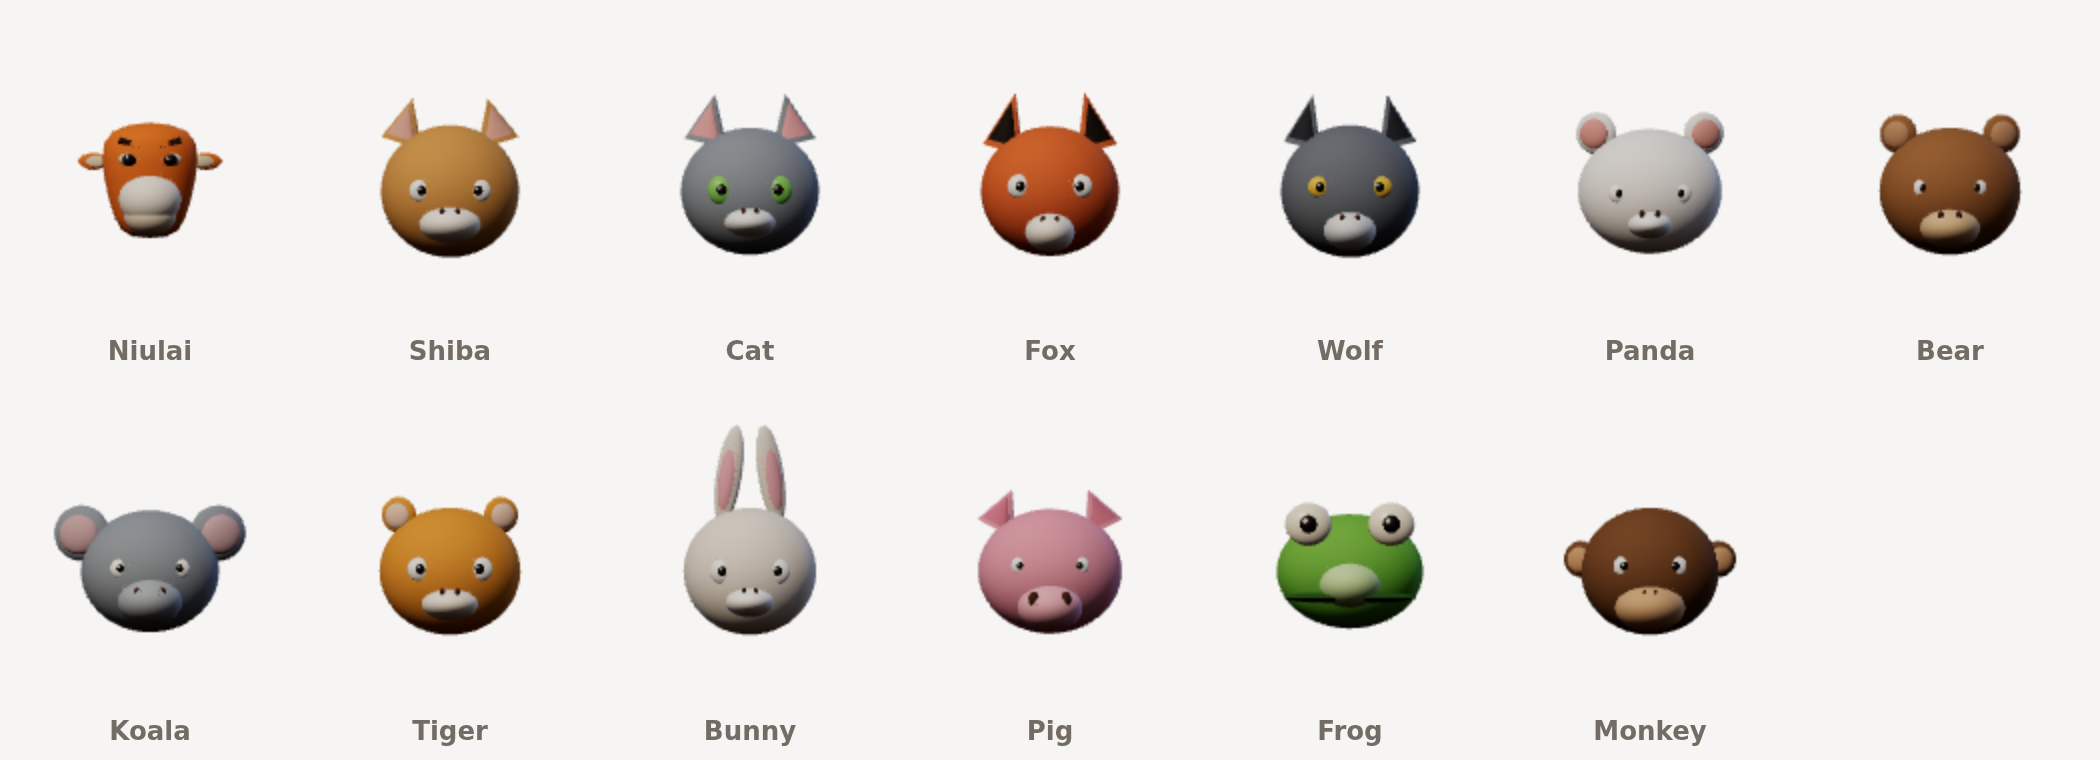
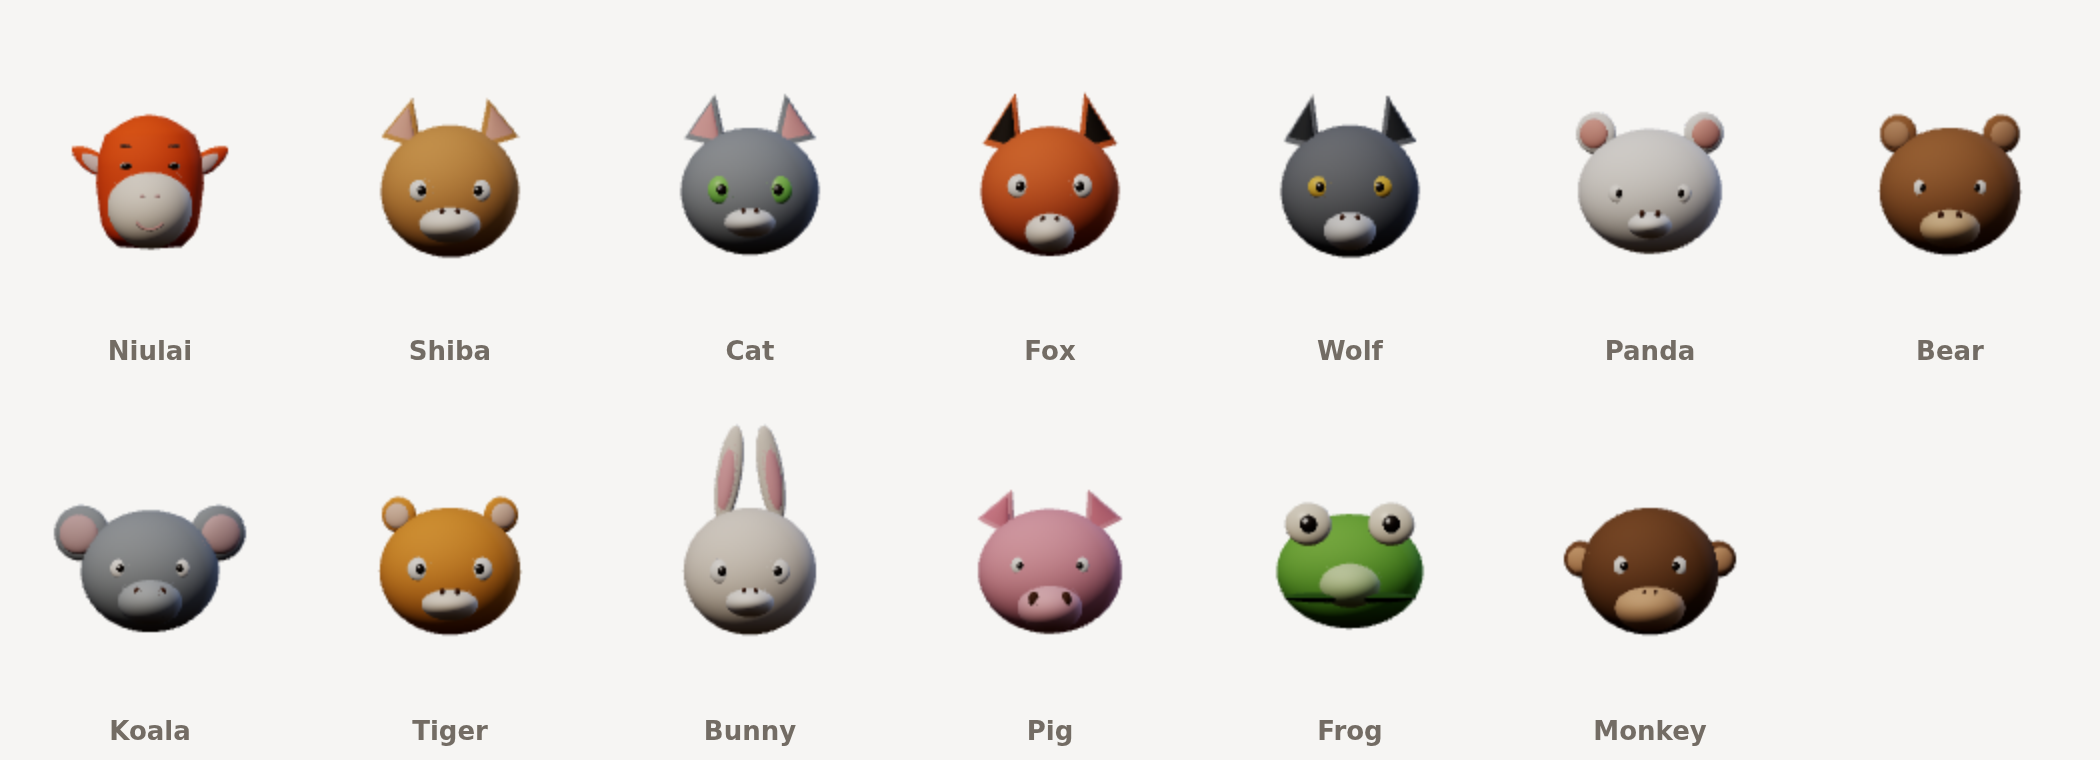
Rebuild Niulai from the three-view turnaround
Measured and colour-sampled from the reference sheet rather than judged
by eye, with the sheet committed to docs/reference/ so the numbers can be
checked.

Scanned off the front frame (head 180px wide, spanning y 76..300, so one
head width is 180px and the origin sits at image y=188):

  head    1.00 wide x 1.24 tall, widest at the vertical centre
  ears    tips reach +/-0.77, about 32 degrees above horizontal
  eyes    +/-0.22, y -0.147, only 0.117 across and flat (aspect 0.52)
  brows   +/-0.22, y -0.33, 0.106 wide, barely 0.018 thick
  muzzle  0.744 wide x 0.78 tall, centred 0.22 below the origin

Colours sampled from the sheet: fur #fa650e, shade #d24f08, muzzle
#f4e2e2, ear inner #efd3d3. All were noticeably more saturated than what
I had been guessing at.

Two things needed the geometry solved rather than eyeballed:

- Features were being placed at a depth inside the lathed skull, so the
  eyes and brows showed only as specks where their tips broke the
  surface. Evaluating the profile radius at each feature's height gives
  the surface depth: 0.393 at the eyes, 0.352 at the brows.
- The muzzle is a sphere intersecting the skull, so its visible pale area
  is the cap that protrudes - not its full width. Flattening it made it
  vanish inside the head entirely. A cap of radius sqrt(2*R*d) means a
  0.40 sphere must protrude 0.173 past the 0.428-deep skull to show the
  0.744-wide muzzle the front frame has.
[…]

Changed region(s): [[0.031, 0.1513, 0.1238, 0.3329]]

diff --git a/src/core/animals.js b/src/core/animals.js
@@ -622,10 +622,10 @@
   var SPECS = [
     base({
       id: 'niulai', name: 'Niulai', emoji: '\ud83d\udc02',
-      fur: '#f5822a', furLight: '#ff9c48', furShade: '#c05a10',
-      inner: '#f0dcc0', outline: '#8a3003',
+      fur: '#fa650e', furLight: '#fd7f28', furShade: '#d24f08',
+      inner: '#efd3d3', outline: '#a83f05',
       mouthColor: '#5a2a10', mouthInner: '#5c2018', tongue: '#cf6b7c',
-      eye: '#221206', eyeWhite: '#efe2d2',
+      eye: '#191110', eyeWhite: '#f2e6e2',
       /*
        * Corrections from the reference, feature by feature:
        *   brows   flat, with a slight frown - not arched
@@ -654,48 +654,59 @@
        */
       model3d: {
         /*
-         * Measured off the front and three-quarter reference frames, in head
-         * widths from the head's centre (head 185px wide, 195px tall in the
-         * front frame, so the whole head is only ~1.05x taller than wide):
+         * Measured off the three-view turnaround by scanning the front frame.
+         * The head is 180px wide and spans y 76..300, so one head width is
+         * 180px and the origin sits at image y=188. Everything below is in
+         * head widths from that centre:
          *
-         *   eyes     +/-0.19, y -0.22, about 0.15 across
-         *   brows    +/-0.19, y -0.32, heavy and angled in
-         *   muzzle   half width 0.30, from y -0.08 down to +0.51
-         *   ears     +/-0.46, y -0.19, small - about 0.135 across
-         *
-         * The three-quarter frame is what sets the snout's forward reach; the
-         * front frame alone reads much flatter than the character is.
+         *   head      1.00 wide x 1.24 tall, widest at the vertical centre
+         *   ears      tips reach +/-0.77, about 32 degrees above horizontal
+         *   eyes      +/-0.22, y -0.147, only 0.117 across - much smaller
+         *             than they look at a glance, and flat (aspect 0.52)
+         *   brows     +/-0.22, y -0.33, 0.106 wide and barely 0.018 thick
+         *   muzzle    0.744 wide x 0.78 tall, centred 0.22 below the origin
          */
         skull: {
-          sx: 1.0, sz: 0.88,
+          sx: 1.0, sz: 0.90,
           profile: [
-            [0.00, -0.52], [0.16, -0.505], [0.265, -0.445], [0.330, -0.325],
-            [0.380, -0.165], [0.420, 0.020], [0.442, 0.200], [0.425, 0.360],
-            [0.345, 0.470], [0.190, 0.530], [0.00, 0.552]
+            [0.00, -0.622], [0.300, -0.600], [0.400, -0.500], [0.447, -0.400],
+            [0.472, -0.250], [0.500, -0.010], [0.490, 0.140], [0.480, 0.240],
+            [0.414, 0.433], [0.339, 0.489], [0.258, 0.545], [0.147, 0.600],
+            [0.00, 0.625]
           ]
         },
-        snout: { rx: 0.292, ry: 0.255, rz: 0.305, y: 0.155, z: 0.205 },
-        eyes: { x: 0.192, y: -0.205, z: 0.318, r: 0.102, aspect: 0.60, tilt: 0.13, iris: 0.066, irisOffset: 0.35 },
-        ear: { type: 'leaf', w: 0.16, h: 0.27, x: 0.415, y: -0.19, z: -0.03, tilt: 1.55, spread: 0.30 },
+        snout: { rx: 0.40, ry: 0.40, rz: 0.42, y: 0.222, z: 0.181 },
+        eyes: { x: 0.22, y: -0.147, z: 0.375, r: 0.064, aspect: 0.52, iris: 0.052, irisOffset: 0.2 },
+        ear: { type: 'leaf', w: 0.20, h: 0.41, x: 0.40, y: -0.10, z: -0.02, tilt: 1.01, spread: 0.34 },
         nose: null,
         mouth: null,
-        brow: { x: 0.192, y: -0.355, z: 0.30, w: 0.20, h: 0.05, d: 0.075, tilt: -0.32, color: '#3d1d07' },
-        jaw: { pivotY: 0.10, maxAngle: 14 * Math.PI / 180 }
+        brow: { x: 0.22, y: -0.33, z: 0.345, w: 0.106, h: 0.019, d: 0.05, tilt: -0.10, color: '#4b4750' },
+        jaw: { pivotY: 0.10, maxAngle: 13 * Math.PI / 180 }
       },
       build3d: function (three, group, parts, spec, kit) {
-        var skin = kit.material('#eddfcb', { roughness: 0.66 });
+        var skin = kit.material('#f4e2e2', { roughness: 0.66 });
 
-        // Chin mass, overlapping the muzzle enough that the two read as one
-        // form rather than stacked bands.
-        var chin = kit.ellipsoid(0.245, 0.185, 0.275, skin);
-        chin.position.set(0, -0.315, 0.175);
-        parts.jaw.add(chin);
+        // Nose bridge, blending the top of the muzzle up toward the eyes.
+        var bridge = kit.ellipsoid(0.145, 0.135, 0.36, skin);
+        bridge.position.set(0, 0.010, 0.145);
+        parts.jaw.add(bridge);
 
-        // Mouth as a change of shade across the muzzle, close enough in tone
-        // that it never reads as a drawn line.
-        var band = kit.ellipsoid(0.20, 0.038, 0.29, kit.material('#e0cdb4', { roughness: 0.8 }));
-        band.position.set(0, -0.275, 0.115);
-        parts.jaw.add(band);
+        // Nostrils, small and set into the top of the muzzle.
+        var nostril = kit.material('#d9b6b8', { roughness: 0.7 });
+        for (var n = -1; n <= 1; n += 2) {
+          var hole = kit.ellipsoid(0.030, 0.022, 0.02, nostril, 16);
+          hole.position.set(n * 0.068, -0.135, 0.572);
+          parts.jaw.add(hole);
+        }
+
+        // Smiling mouth: an arc of tube, which curves where a flattened
+        // ellipsoid could only sit straight.
+        var smileGeo = new three.TorusGeometry(0.145, 0.0125, 8, 26, 2.0);
+        var smile = new three.Mesh(smileGeo, kit.material('#cf9e9e', { roughness: 0.75 }));
+        smile.position.set(0, -0.30, 0.545);
+        smile.rotation.z = (Math.PI - 2.1) / 2 + Math.PI;
+        smile.rotation.x = -0.25;
+        parts.jaw.add(smile);
       },
 
       headShape: function (ctx) {
